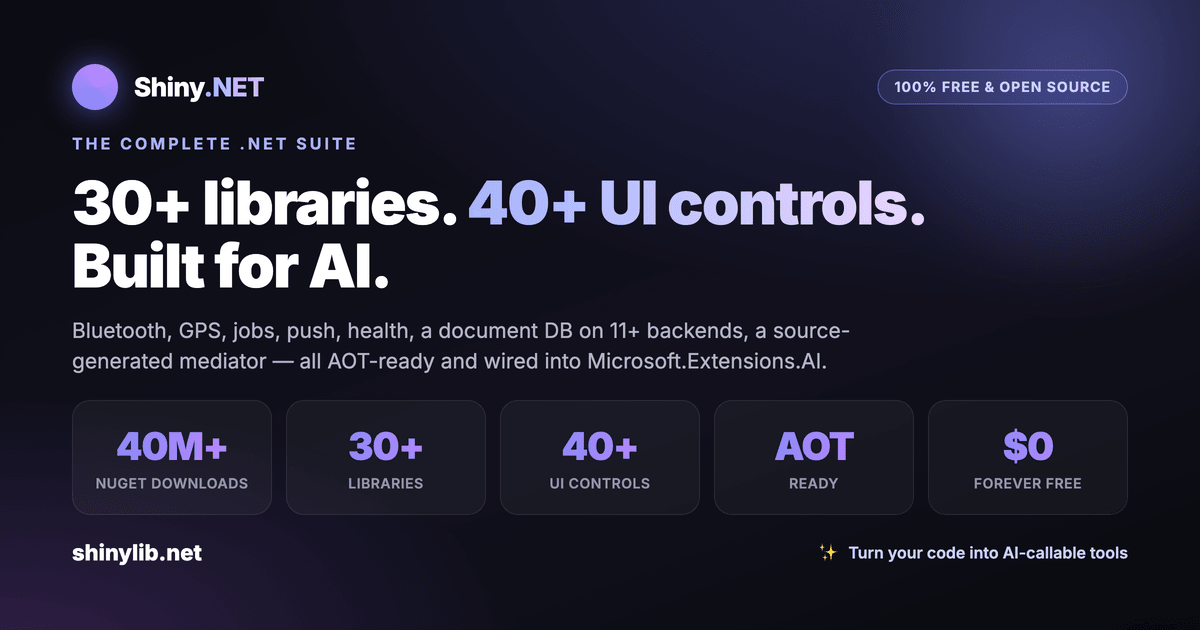
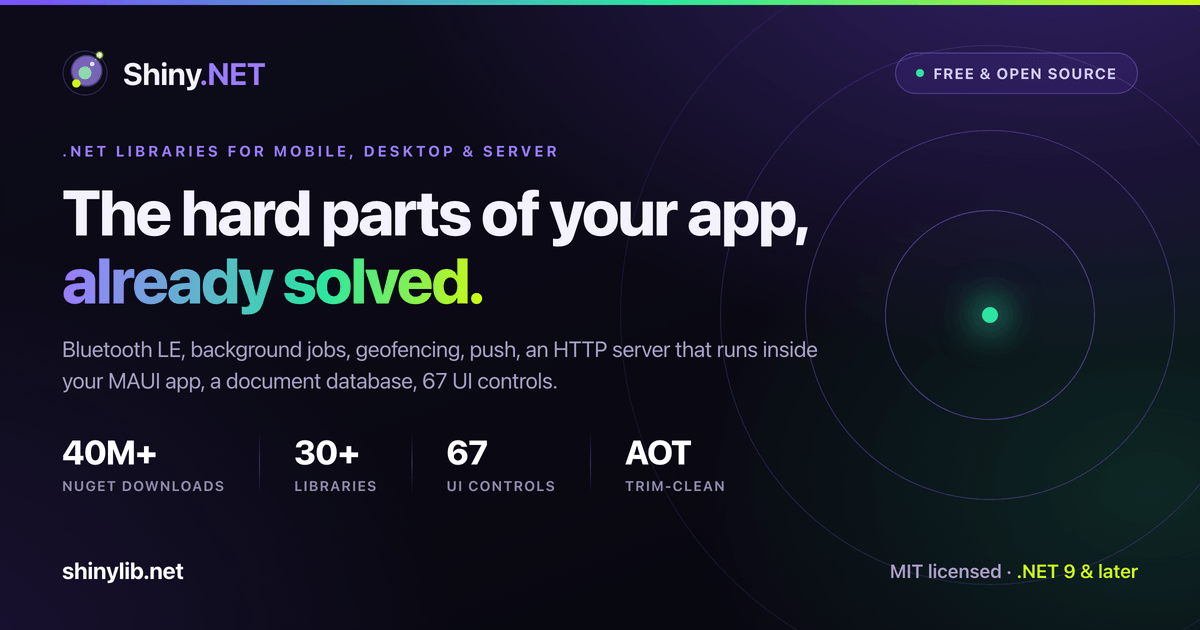
Updates

diff --git a/scripts/og-image.html b/scripts/og-image.html
@@ -1,0 +1,164 @@
+<!doctype html>
+<meta charset="utf-8">
+<title>Shiny.NET social card</title>
+<!--
+  Source for public/og-image.png — the Open Graph / Twitter card used when a
+  shinylib.net link is pasted into X, Teams, LinkedIn, Slack, etc.
+  Keep the headline and the stat row in sync with src/components/HomeHero.astro.
+
+  Regenerate (1200x630, rendered at 2x then downsampled):
+
+    "/Applications/Google Chrome.app/Contents/MacOS/Google Chrome" --headless \
+      --disable-gpu --hide-scrollbars --force-device-scale-factor=2 \
+      --window-size=1200,630 --allow-file-access-from-files \
+      --screenshot=/tmp/og@2x.png "file://$PWD/scripts/og-image.html"
+
+    node -e "require('sharp')('/tmp/og@2x.png').resize(1200,630,{kernel:'lanczos3'})\
+      .png({compressionLevel:9,palette:true,colours:255,dither:0.9,effort:10})\
+      .toFile('public/og-image.png')"
+
+  Then bump the ?v= on the og:image / twitter:image URLs in astro.config.mjs so
+  the social scrapers re-fetch instead of serving their cached copy.
+-->
+<style>
+  :root {
+    --purple: #9B7BFF;
+    --purple-vivid: #7C4DFF;
+    --green: #2BE5A0;
+    --lime: #CFFA12;
+    --ink: #F4F2FF;
+    --muted: #A7A2C4;
+  }
+  * { margin: 0; padding: 0; box-sizing: border-box; }
+  html, body { width: 1200px; height: 630px; }
+  body {
+    font-family: -apple-system, "SF Pro Display", "Inter", system-ui, sans-serif;
+    background: #0A0913;
+    color: var(--ink);
+    -webkit-font-smoothing: antialiased;
+    overflow: hidden;
+  }
+
+  .card {
+    position: relative;
+    width: 1200px;
+    height: 630px;
+    overflow: hidden;
+    background:
+      radial-gradient(1100px 700px at 88% -12%, rgba(124,77,255,0.34), transparent 62%),
+      radial-gradient(700px 520px at 96% 78%, rgba(43,229,160,0.14), transparent 66%),
+      radial-gradient(760px 620px at -6% 108%, rgba(124,77,255,0.14), transparent 70%),
+      linear-gradient(160deg, #0D0B1A 0%, #0A0913 55%, #08070F 100%);
+  }
+
+  /* radar rings — echoes the "scan" motif of the homepage hero */
+  .scan { position: absolute; top: 50%; right: -170px; transform: translateY(-50%); width: 760px; height: 760px; }
+  .scan i {
+    position: absolute; inset: 0; margin: auto; border-radius: 50%;
+    border: 1px solid rgba(155,123,255,0.20);
+  }
+  .scan i:nth-child(1) { width: 210px; height: 210px; border-color: rgba(155,123,255,0.42); }
+  .scan i:nth-child(2) { width: 370px; height: 370px; border-color: rgba(155,123,255,0.30); }
+  .scan i:nth-child(3) { width: 540px; height: 540px; border-color: rgba(155,123,255,0.19); }
+  .scan i:nth-child(4) { width: 740px; height: 740px; border-color: rgba(155,123,255,0.11); }
+  .scan b {
+    position: absolute; inset: 0; margin: auto; width: 16px; height: 16px; border-radius: 50%;
+    background: var(--green); box-shadow: 0 0 34px 10px rgba(43,229,160,0.55);
+  }
+
+  /* top gradient hairline */
+  .rule {
+    position: absolute; top: 0; left: 0; right: 0; height: 5px;
+    background: linear-gradient(90deg, var(--purple-vivid) 0%, var(--green) 55%, var(--lime) 100%);
+  }
+
+  .inner { position: relative; padding: 50px 62px 46px; height: 100%; display: flex; flex-direction: column; }
+
+  /* header */
+  header { display: flex; align-items: center; justify-content: space-between; }
+  .brand { display: flex; align-items: center; gap: 15px; }
+  .brand img { width: 46px; height: 46px; display: block; }
+  .brand span { font-size: 31px; font-weight: 700; letter-spacing: -0.017em; }
+  .brand span em { font-style: normal; color: var(--purple); }
+  .pill {
+    display: flex; align-items: center; gap: 9px;
+    padding: 11px 20px; border-radius: 999px;
+    border: 1px solid rgba(155,123,255,0.36);
+    background: rgba(124,77,255,0.11);
+    font-size: 15px; font-weight: 700; letter-spacing: 0.075em; text-transform: uppercase;
+    color: #D6CCFF;
+  }
+  .pill s { width: 8px; height: 8px; border-radius: 50%; background: var(--green); text-decoration: none; }
+
+  /* copy */
+  .copy { margin-top: 46px; }
+  .eyebrow {
+    font-size: 15px; font-weight: 700; letter-spacing: 0.20em; text-transform: uppercase;
+    color: var(--purple); margin-bottom: 18px;
+  }
+  h1 {
+    font-size: 64px; line-height: 1.06; font-weight: 800; letter-spacing: -0.032em;
+    max-width: 920px;
+  }
+  h1 u {
+    text-decoration: none;
+    background: linear-gradient(96deg, var(--purple) 0%, var(--green) 62%, var(--lime) 100%);
+    -webkit-background-clip: text; background-clip: text; color: transparent;
+  }
+  .lede {
+    margin-top: 20px; max-width: 760px;
+    font-size: 22px; line-height: 1.42; color: var(--muted); letter-spacing: -0.008em;
+  }
+
+  /* stats */
+  .stats { margin-top: 36px; display: flex; align-items: stretch; gap: 34px; }
+  .stat { display: flex; flex-direction: column; gap: 6px; }
+  .stat b { font-size: 34px; font-weight: 800; letter-spacing: -0.028em; color: #fff; }
+  .stat span { font-size: 14px; font-weight: 650; letter-spacing: 0.085em; text-transform: uppercase; color: #8E89AE; }
+  .sep { width: 1px; background: linear-gradient(180deg, transparent, rgba(155,123,255,0.34), transparent); }
+
+  /* footer */
+  footer { margin-top: auto; display: flex; align-items: center; justify-content: space-between; }
+  .url { font-size: 23px; font-weight: 700; letter-spacing: -0.01em; color: #fff; }
+  .tag { font-size: 19px; font-weight: 600; color: var(--muted); }
+  .tag em { font-style: normal; color: var(--lime); }
+</style>
+
+<div class="card">
+  <div class="scan"><i></i><i></i><i></i><i></i><b></b></div>
+  <div class="rule"></div>
+
+  <div class="inner">
+    <header>
+      <div class="brand">
+        <img src="../public/images/logo.svg" alt="">
+        <span>Shiny<em>.NET</em></span>
+      </div>
+      <div class="pill"><s></s>Free &amp; open source</div>
+    </header>
+
+    <div class="copy">
+      <div class="eyebrow">.NET libraries for mobile, desktop &amp; server</div>
+      <h1>The hard parts of your app,<br><u>already solved.</u></h1>
+      <p class="lede">
+        Bluetooth&nbsp;LE, background jobs, geofencing, push, an HTTP server that runs
+        inside your MAUI app, a document database, 67 UI controls.
+      </p>
+
+      <div class="stats">
+        <div class="stat"><b>40M+</b><span>NuGet downloads</span></div>
+        <div class="sep"></div>
+        <div class="stat"><b>30+</b><span>Libraries</span></div>
+        <div class="sep"></div>
+        <div class="stat"><b>67</b><span>UI controls</span></div>
+        <div class="sep"></div>
+        <div class="stat"><b>AOT</b><span>Trim-clean</span></div>
+      </div>
+    </div>
+
+    <footer>
+      <div class="url">shinylib.net</div>
+      <div class="tag">MIT licensed &middot; <em>.NET 9 &amp; later</em></div>
+    </footer>
+  </div>
+</div>
